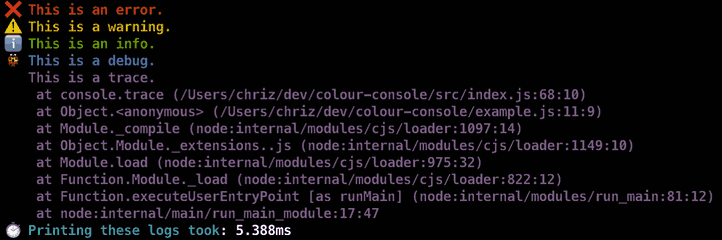
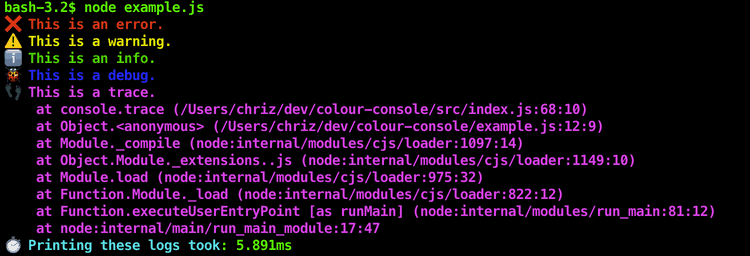
feat: use brighter colors by default (with possibility to return to regular colors)
-

Changed region(s): [[0.0, 0.0, 1.0, 0.9917]]

diff --git a/src/index.js b/src/index.js
@@ -1,48 +1,49 @@
+console.useEmoji = true
+console.useBrightColors = true
+
 const c = {
-	red: '\x1b[31m',
-	green: '\x1b[32m',
-	yellow: '\x1b[33m',
-	blue: '\x1b[34m',
-	magenta: '\x1b[35m',
-	cyan: '\x1b[36m',
+	red: () => (console.useBrightColors ? '\x1b[91m' : '\x1b[31m'),
+	green: () => (console.useBrightColors ? '\x1b[92m' : '\x1b[32m'),
+	yellow: () => (console.useBrightColors ? '\x1b[93m' : '\x1b[33m'),
+	blue: () => (console.useBrightColors ? '\x1b[94m' : '\x1b[34m'),
+	magenta: () => (console.useBrightColors ? '\x1b[95m' : '\x1b[35m'),
+	cyan: () => (console.useBrightColors ? '\x1b[96m' : '\x1b[36m'),
 	reset: '\x1b[0m',
 }
-
-console.useEmoji = true
 
 console.oldError = console.error
 console.error = function () {
 	if (console.useEmoji) {
-		console.oldError('❌', c.red, ...arguments, c.reset)
+		console.oldError('❌', c.red(), ...arguments, c.reset)
 	} else {
-		console.oldError(c.red + '[ERROR]', ...arguments, c.reset)
+		console.oldError(c.red() + '[ERROR]', ...arguments, c.reset)
 	}
 }
 
 console.oldWarn = console.warn
 console.warn = function () {
 	if (console.useEmoji) {
-		console.oldWarn('⚠', c.yellow, ...arguments, c.reset)
+		console.oldWarn('⚠', c.yellow(), ...arguments, c.reset)
 	} else {
-		console.oldWarn(c.yellow + '[WARN]', ...arguments, c.reset)
+		console.oldWarn(c.yellow() + '[WARN]', ...arguments, c.reset)
 	}
 }
 
 console.oldInfo = console.info
 console.info = function () {
 	if (console.useEmoji) {
-		console.oldInfo('ℹ', c.green, ...arguments, c.reset)
+		console.oldInfo('ℹ', c.green(), ...arguments, c.reset)
 	} else {
-		console.oldInfo(c.green + '[INFO]', ...arguments, c.reset)
+		console.oldInfo(c.green() + '[INFO]', ...arguments, c.reset)
 	}
 }
 
 console.oldDebug = console.debug
 console.debug = function () {
 	if (console.useEmoji) {
-		console.oldDebug('🐞', c.blue, ...arguments, c.reset)
+		console.oldDebug('🐞', c.blue(), ...arguments, c.reset)
 	} else {
-		console.oldDebug(c.blue + '[DEBUG]', ...arguments, c.reset)
+		console.oldDebug(c.blue() + '[DEBUG]', ...arguments, c.reset)
 	}
 }
 
@@ -59,9 +60,9 @@ console.trace = function () {
 		}
 
 		if (console.useEmoji) {
-			console.oldError('👣', c.magenta, ...args, c.reset)
+			console.oldError('👣', c.magenta(), ...args, c.reset)
 		} else {
-			console.oldError(c.magenta + '[TRACE]', ...args, c.reset)
+			console.oldError(c.magenta() + '[TRACE]', ...args, c.reset)
 		}
 	}
 	console.oldTrace(...arguments)
@@ -71,27 +72,27 @@ console.trace = function () {
 console.oldTime = console.time
 console.time = function (label) {
 	if (console.useEmoji) {
-		console.oldTime('⏱  ' + c.cyan + label + c.reset)
+		console.oldTime('⏱  ' + c.cyan() + label + c.reset)
 	} else {
-		console.oldTime(c.cyan + '[TIME] ' + label + c.reset)
+		console.oldTime(c.cyan() + '[TIME] ' + label + c.reset)
 	}
 }
 
 console.oldTimeLog = console.timeLog
 console.timeLog = function (label) {
 	if (console.useEmoji) {
-		console.oldTimeLog('⏱  ' + c.cyan + label + c.reset)
+		console.oldTimeLog('⏱  ' + c.cyan() + label + c.reset)
 	} else {
-		console.oldTimeLog(c.cyan + '[TIME] ' + label + c.reset)
+		console.oldTimeLog(c.cyan() + '[TIME] ' + label + c.reset)
 	}
 }
 
 console.oldTimeEnd = console.timeEnd
 console.timeEnd = function (label) {
 	if (console.useEmoji) {
-		console.oldTimeEnd('⏱  ' + c.cyan + label + c.reset)
+		console.oldTimeEnd('⏱  ' + c.cyan() + label + c.reset)
 	} else {
-		console.oldTimeEnd(c.cyan + '[TIME] ' + label + c.reset)
+		console.oldTimeEnd(c.cyan() + '[TIME] ' + label + c.reset)
 	}
 }
 

diff --git a/README.md b/README.md
@@ -30,12 +30,11 @@ console.trace('This is a trace.')
 console.timeEnd('Printing these logs took')
 ```
 
-![example output](https://raw.githubusercontent.com/chrisEff/colour-console/main/example1.png)
+![example output](example1.png)
 
 ## But I don't like those ugly emojis!
 
-Don't worry, I got you covered!
-Just set
+Don't worry, I got you covered! Just set:
 
 ```js
 console.useEmoji = false
@@ -43,4 +42,14 @@ console.useEmoji = false
 
 right after importing this package and you're good:
 
-![example output](https://raw.githubusercontent.com/chrisEff/colour-console/main/example2.png)
+![example output](example2.png)
+
+## Can I get some colours that are a little less bright?
+
+No problem! Just set:
+
+```js
+console.useBrightColors = false
+```
+
+![example output](example3.png)
